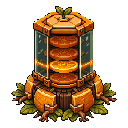
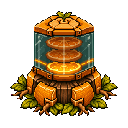
重绘橘充能塔为三层矮宽玻璃结构
- 使用生图工具定向重绘六边形柱塔，将橘片明确缩减为三层并压低柱体；以最近邻中心取样保留128像素细节，主体由旧版106×116调整为108×105。

- 扩大左右半透明玻璃向中心的覆盖范围并贯穿最底层，重新拆分静态塔体、橘片发光层和玻璃发光层，保证透过玻璃仍能辨认内部橘片。

- 将循环着色器改为三层自下而上依次点亮，保留每层完全熄灭后的黑场；橘片与玻璃共享时钟，并维持白天自发光与夜间橙色扩散光。

- 增加可确定注入的渲染审计相位，在真实GPU下同时验证橘片和玻璃的层序、黑场与透明边缘，避免无头测试跳过后留下视觉盲区。

- 补充来源先放置、目标后进入以及目标单独移除的气场事件顺序测试，并锁定矮宽轮廓、玻璃内扩、底层覆盖和128像素责任层契约。

diff --git a/dev_tools/orange_charging_tower_asset_pipeline.py b/dev_tools/orange_charging_tower_asset_pipeline.py
@@ -1,9 +1,9 @@
 #!/usr/bin/env python3
 """Build the layered 128 px Orange Charging Tower runtime textures.
 
-The image generator supplies one approved, composited 128x128 source.  Runtime
+The image generator supplies one approved, composited 128x128 source. Runtime
 animation reuses transparent responsibility layers instead of swapping complete
-tower frames: a dormant body, the four orange slices, and the two glass panes.
+tower frames: a dormant body, the three orange slices, and the two glass panes.
 """
 
 from __future__ import annotations
@@ -17,14 +17,13 @@ from PIL import Image, ImageDraw
 CANVAS_SIZE = (128, 128)
 TRANSPARENT = (0, 0, 0, 0)
 SLICE_RECTS = (
-    (38, 35, 91, 47),
-    (38, 47, 91, 59),
-    (36, 59, 93, 73),
-    (38, 73, 91, 84),
+    (45, 37, 83, 49),
+    (44, 49, 84, 60),
+    (31, 59, 97, 69),
 )
 GLASS_POLYGONS = (
-    ((34, 32), (48, 36), (48, 75), (35, 72)),
-    ((80, 36), (94, 32), (93, 72), (80, 75)),
+    ((34, 34), (59, 35), (59, 69), (34, 67)),
+    ((69, 35), (94, 34), (94, 67), (69, 69)),
 )
 
 
@@ -134,17 +133,6 @@ def build_layers(
                     pixel[2],
                     max(78, min(188, round(pixel[3] * 0.58))),
                 )
-            elif _is_orange(pixel) and (x < 42 or x > 86):
-                # Remove the baked active orange band from the static glass;
-                # the dedicated glass shader will recreate it for every layer.
-                luminance = max(pixel[0], pixel[1])
-                body_pixels[x, y] = (
-                    34,
-                    min(112, 54 + luminance // 5),
-                    min(118, 62 + luminance // 5),
-                    116,
-                )
-
             glass_glow_pixels[x, y] = (255, 170, 72, mask_alpha)
 
     output_dir.mkdir(parents=True, exist_ok=True)
